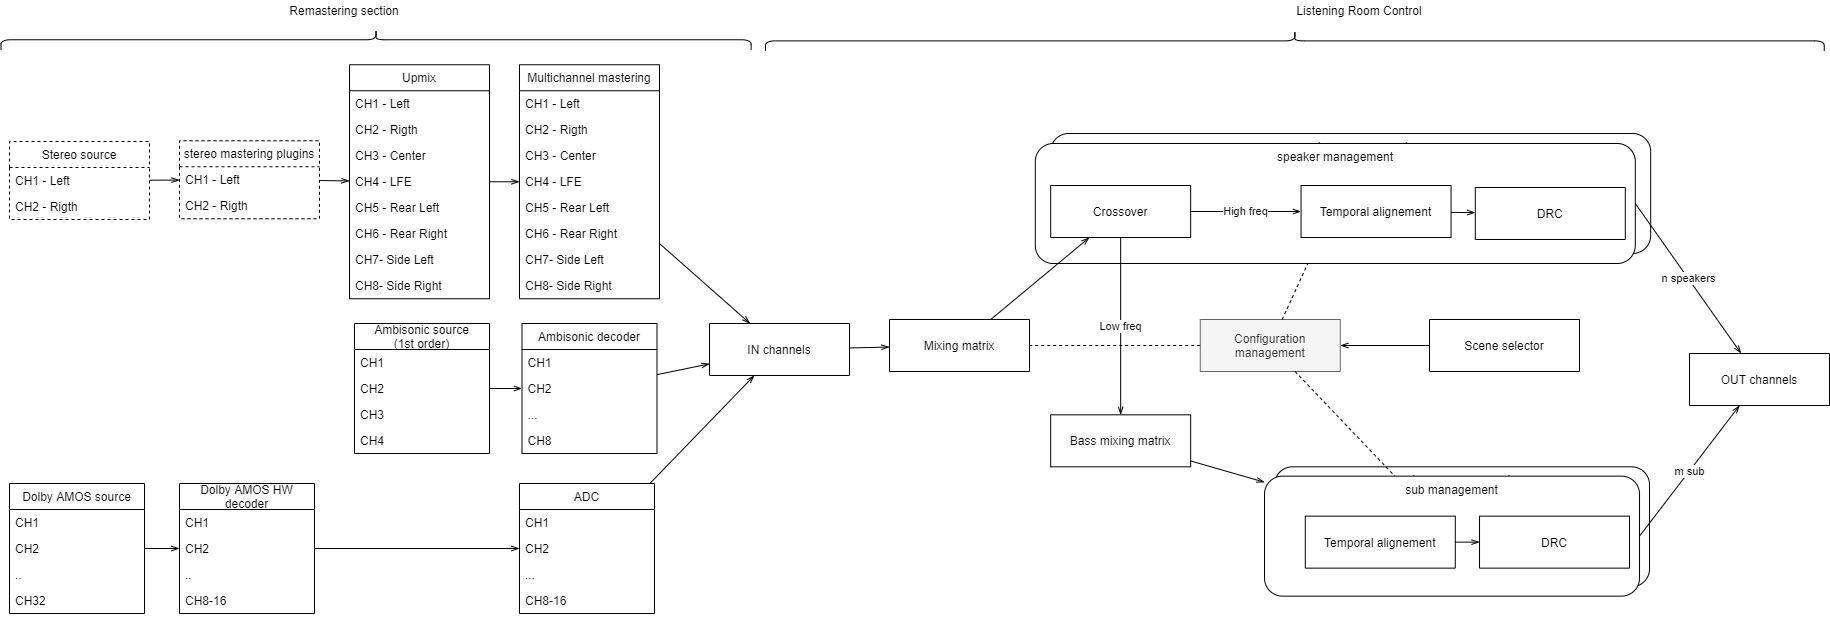
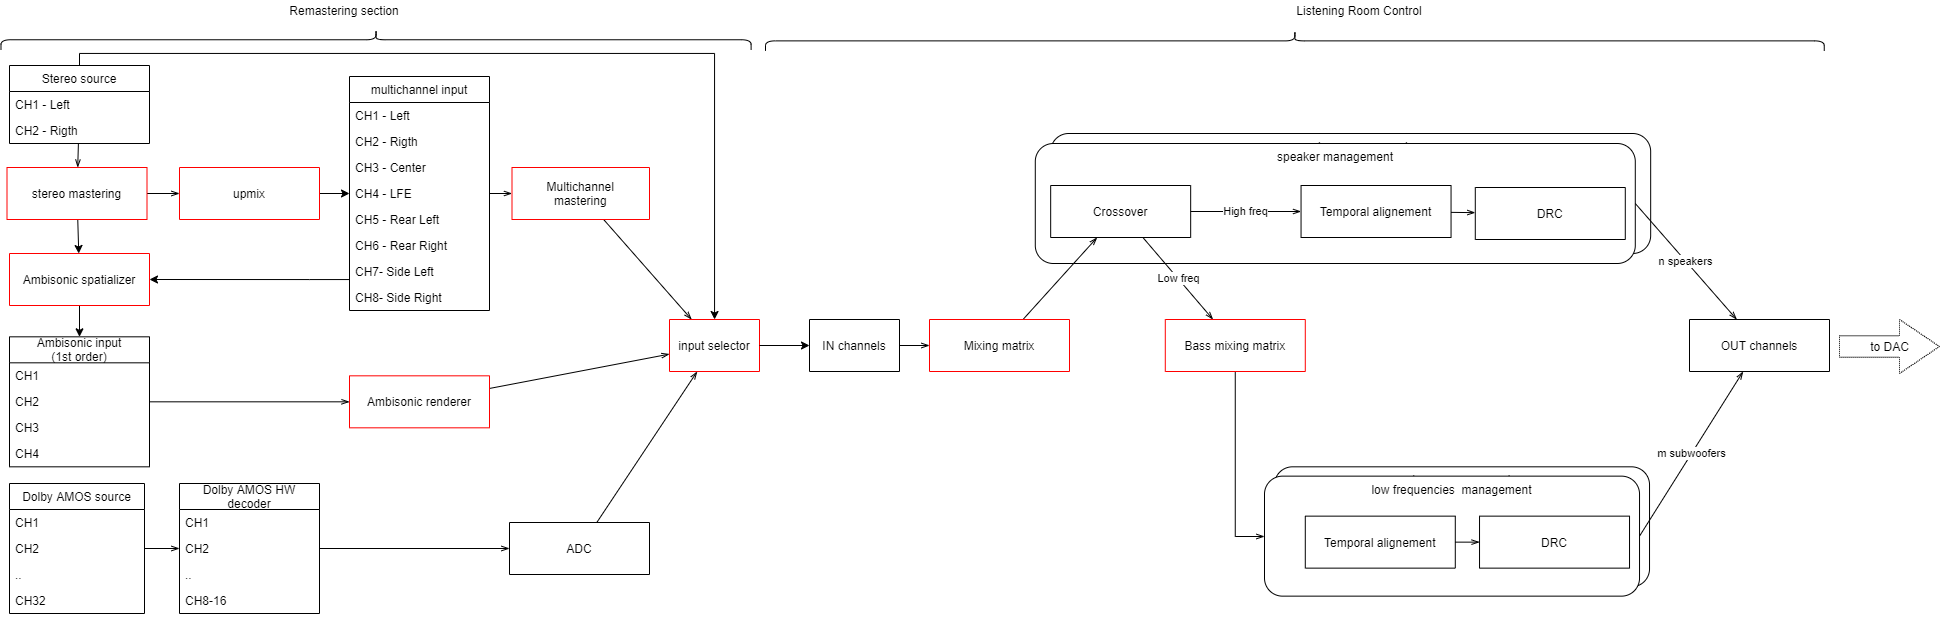
updated

diff --git a/README.md b/README.md
@@ -54,9 +54,13 @@ Here is a functional view of the system:
 
 ![functional view](images/functional-view.png)
 
-The heart of the system is undoubtedly the chain of digital processors. The current hypothesis for this project (any advice and alternatives are welcome) is to use a VST host and a series of VST plugins for mastering functions, along with some hardware DSP processors to handle bass management, dynamic range control (DRC), and time alignment in the speaker network as summarized in the following figure:
+The heart of the system is undoubtedly the chain of digital processors. The current hypothesis for this project (any advice and alternatives are welcome) is to use a VST host and a series of VST plugins for mastering functions, along with some hardware DSP processors to handle bass management, dynamic range control (DRC), and time alignment in the speaker network.
+
+Some possible signal routing enabled by liroma are summarized in the following figure:
 
 ![signal routing](images/dsp.png)
+
+The red devices configuration and the signal routing should be managed by a the control application
 
 ### Input signals requirements
 - The input SHOULD be captured directly in the source digital domain, for instance in files with lossless compression encoding, or directly from the streaming service
@@ -80,7 +84,7 @@ If not all features can be fulfilled by a single sw player, different specialize
 
 The player system is also responsible for the upmixing and for the auralization (e.g. from stereo to 7.1 channels) of the digital sources.
 
-### re-mastering DSP requirements
+### Re-mastering DSP requirements
 - re-mastering MUST occur in the player system.
 - The re-mastering sub-system SHOULD support VST plugins 
 - Plugin processing SHOULD work at least with 32bit of resolution.
@@ -103,7 +107,7 @@ The typical use case is:
 - it SHOULD limit resonances in the hotspot with a flat response as much as possible.
 - it SHOULD have a semi-permanent physical configuration
 - it SHOULD NOT contain noising equipment
-- it MUST ensure less than 30dB SPL of noise floor
+- it MUST ensure less than 30dB SPL of the noise floor
 
 
 ### Control applications requirements
@@ -150,6 +154,7 @@ The following constraints are useful to simplify the system's complexity:
 - [jremote APP](https://jremote.jriver.com/) as DNLA controller
 - Synology Nas for media storage
 
+
 ### Services
 - Amazon Music HD plan
 
@@ -163,30 +168,31 @@ The reference hardware is based on some old gears that you can find in the used 
 - 2x [Motu 2408](https://motu.com/en-us/download/product/22/?details=true&page=5) DAC for analogic out for  auralization
 - [Yamaha DME64N](https://it.yamaha.com/it/products/proaudio/processors/dme-n/) + 2 My16 Adat boards [[Doc](https://it.yamaha.com/files/download/other_assets/5/325135/dme64n_en_om_h0.pdf)]
 - 10x cheap speakers for auralization and spatialization driven by a Rotel and a Denon multichannel amps
-- 2x Klipsch Cornwall as front monitors driven by Electrocompaniet amp
-- Klipsch Heresy as center driven by quad amp (bi-amplification)
+- 2x main front monitor (horn based) as driven by a class A amp
+- Main center driven by a good bi-amplification
 - Genelec 7070A for infra sub/LFE
-- 2x Yamaha sub
-- 2x Tannoy for rear surround (stage accompany amp)
+- 2x small sub for spatialization and mode control
+- 2x passive midfield monitor for rear surround (driven by a stereo pro amp)
+
+The RME board serves both to transfer PC playback channels to the speaker management (DME64N), and as DAC for the main speaker. This allows to bypass the DME64N and implement "bit perfect" configurations where digital sources feed directly the DAC without any change.
 
 ### Room 
 Two distinct physical areas are planned:
 
 1. A small room to place the noisy equipment, mainly due to fans and processor cooling systems.
-2. A 6mx4m listening room with a geometry that is symmetrical with respect to the hot spot
+2. A 6mx4m listening room with a geometry that is symmetrical to the hot spot, the room is logically divided in two sub-area: south (front) and nord (rear).
 
-The room modal analysis on the low frequencies shows:
-- a pick at 27.6hz (and its harmonics 51, 76, etc), 
+The listening room modal analysis on the low frequencies shows:
+- a peak at 27.6hz (and its harmonics 51, 76, etc), 
 - a dip at 38.4Hz (and its harmonics 51, 76, etc))
-- a pick at 40.6hz (and its harmonics 82, 76, etc), 
+- a peak at 40.6hz (and its harmonics 82, 76, etc), 
 
-The area between 70 and 110 is critical due to the presence of many adjacents dips and picks.
+The area between 70 and 110 is critical due to the presence of many adjacent dips and peaks.
 The most critical resonant frequencies are 77Hz and 84-85 hz
 
 
-
 ### speaker and hot spot placement placement
-The hotspot is placed about the center of the listening room, with a tollerance of 30cm in all directions.
+The hotspot is placed about the center of the listening room, with a tolerance of 30cm in all directions.
 
 There are 5 main speakers + 10 small speakers + 3 subwoofer (one capable to go down 20Hz)
 
@@ -194,12 +200,12 @@ There are 5 main speakers + 10 small speakers + 3 subwoofer (one capable to go d
 
 
 At the hot spot, on main speakers and subs placement shows:
-- a big pick at  55Hz
-- a critical area betwwen 80 and 120Hz
-- a  dip at 107
+- a big peak at 55Hz
+- a critical area between 80Hz and 120Hz
+- a dip at 107Hz
 
 
-The theorical modal response on the dumped room in the hostspot, considering about 15% absorbtion in all directions is and  the range 20-300Hz:
+The theoretical modal response on the dumped room in the host spot, considering about 15% absorption in all directions is and  the range 20-300Hz:
 
 ![dumped room response](images/modal_response_on_dumped_room.png)
 
@@ -217,6 +223,15 @@ Such speaker placement is suitable to simulate the standard configurations just 
 Creative signal mix, together with re-mastering allow to simulate of various room responses according to personal taste. Each logical configuration can be assigned to a "scene" that works together with re-mastering plugins to reproduce the preferred sound. Scenes and re-mastering configurations can be assigned to each single music recording allowing an optimized spatialization and a better-perceived soundscape for the selected audio context.
 
 
+### Cabling
+The system cabling is realized using a mix of optical cables (ADAT), balanced signal cables, unbalanced cables,75oHm rf cables,and audio power cables as depicted in the following diagram:
+
+![cabling diagram](images/cabling_view.png)
+
+> There are still some criticisms to solve:
+> - the ADAT cable that connect the machine room to the south area in the listening room excedes in length the ADAT specs. It is not clear > if this can create problems
+> - The center amp accepts only unbalanced inputs while the input cable is balanced, this makes the balanced cable used as two unbalanced cables with phase rotated of 180°. Because of the cable lenght (more than 10m) some ground loop could be  generated
+
 ### Speaker management
 
 Each speaker is processed by a set of DSPs:
@@ -224,20 +239,26 @@ Each speaker is processed by a set of DSPs:
 - a digital delay aligns the temporal gap between speakers
 - a 6-band parametric equalizer corrects the distortions introduced by room geometry (DRC)
 
-The bass management sums the low frequencies contribution of the speaker that require it. Phase and delays are used to minimize the room modal response problems.
+The bass management sums the low-frequency contributions of the speaker that requires it. Phase and delays are used to minimize the room modal response problems.
 
 Bass management is also in charge to change the LFE channel response for video sources (i.e. +10db) according to AES specifications.
 
 Each speaker (with bass management)  MUST be calibrated with a pink noise signal at -20Dbf to generate about 73 dbSPL in all 1/3 octave bands at the hot spot. 
 
-
-Here some examples of speaker scene used to support different routing and configuration:
+Here some examples of speaker scenes used to support different routing and configurations:
 
 ![Scenes](images/scenes.png)
 
-### re-mastering
 
-TBD
+### re-mastering
+The re-mastering feature solves three classes of problems:
+- adapts the recorded sound to personal taste (e.g. apply analogic valve distortion, compression, de-essing, etc.)
+- upmixs, spatializes, and auralizes the input source to simulate different geometry for the listening room (i.e. a large hall, a jazzaclub, a church)
+- volume adaptation to reduce the different mastering choice in source recording (e.g. k20, k16,k10) 
+
+Spatialization, auralization and upmix  could use various techniques phase shifts, pan, delay, reverbs, impulse convolutions, ambisonic. 
+
+To do this, specialized plugins are required. At present liroma uses jriver proprietary plugins
 
 ## How to Contribute to the Project
 Many aspects of this project are still open for discussion, and for each of these points, a [Polis](https://pol.is/home) area is available as a conversational platform, in the hope of reaching a shared opinion:
